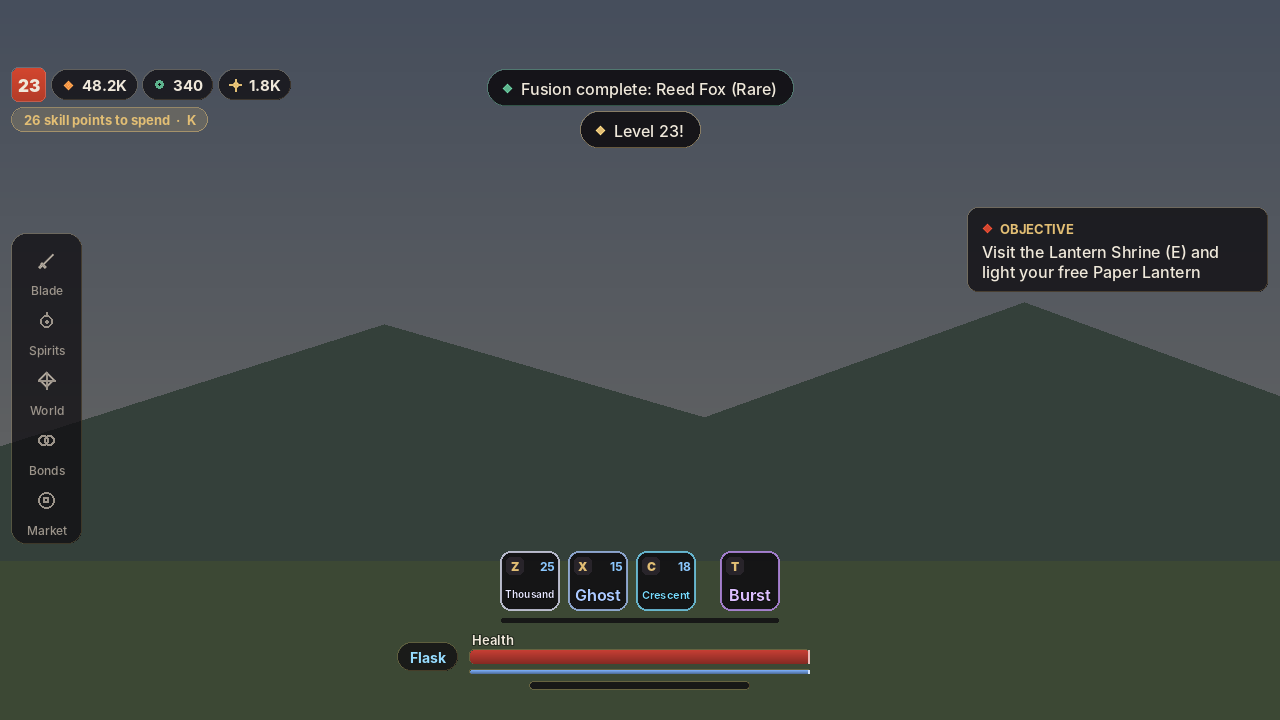
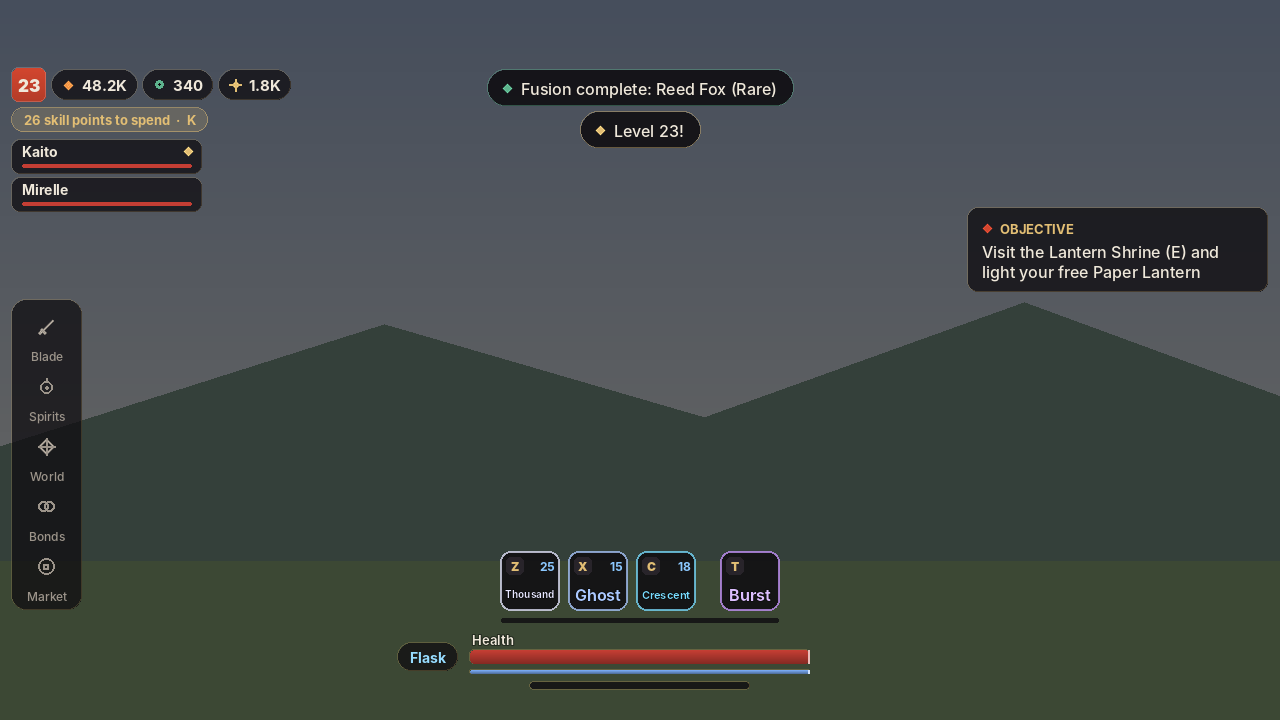
Party frames on the HUD, guard-aware enemy attacks, docs for night 4
- PartyFramesController: party members' names, health and distance (leader marked); moves
  to the top right on phones; dock lowered so both fit
- Enemies favor perilous (unblockable) attacks while you hold guard
- PROGRESS / HANDOFF night 4, refreshed UI previews

Claude-Session: https://claude.ai/code/session_01G92vzoZqQ6fEnzpE6jwRTB

diff --git a/HANDOFF.md b/HANDOFF.md
@@ -207,3 +207,21 @@ The guide is **still not in the repo**; this run followed the task brief + night
 - **Content**: `BossConfig.kurozuma` (Raid), Tidewater Spirits + abilities in `SpiritConfig`,
   `LanternConfig.tidewater_lantern` (added to `HubConfig.ShrineLanterns`, so the generated hub
   now has 4 pedestals), Night Market `crab_ashen` / `kite_gilded`.
+
+## Night 4 (same branch)
+- **Bell Dice** (`Shared/DiceLogic`, `DiceConfig`, `DiceService` priority 25, `DiceController`,
+  panel `BellDice` in the Market dock group). Remotes `DiceState()`, `DiceBet(betId, amount)`,
+  `DiceExchange(amount)`, `DiceEvent` (broadcast). Profile v15: `chips`, `chipsDay`,
+  `chipsExchangedDay`, `chipsExchanged`. **Compliance:** chips must never get a Robux, Ember or
+  Jade path in, never be tradeable, never be a code/bundle reward (tests/dice.spec.luau checks
+  products and codes). It is refused where PolicyService restricts paid random items. Real-
+  money/Robux gambling is not allowed on Roblox; this is simulated gambling with free chips and
+  must be declared in the experience questionnaire.
+- **Enemy AI**: `Logic/EnemyMovement` (ring slots, separation, step back, pack offsets,
+  anti-guard weight), knobs in `EnemyConfig.Movement`. EnemyService brains gained
+  `attackedAt`, `attackHandled`, `retreatUntil`, `driftSign`.
+- **World**: `MapConfig.Clutter` (gate counts), `MapConfig.MinSpawnGap` / `MinSentryGap`
+  (enforced by tests/world.spec.luau). The map itself was not scaled: Saga NPCs, waystones,
+  the river and the waterfall cave are hand-placed and would need moving together.
+- **Party frames**: `PartyFramesController` (reads PartyController.State + characters).
+  The dock now sits at 60% height so the frames fit above it.

diff --git a/PROGRESS.md b/PROGRESS.md
@@ -217,6 +217,15 @@ Legend: [x] done in code · [~] code done, needs Studio work/playtest · [ ] not
 - [ ] Studio: look at the real UI on PC + phone (fonts render differently from the preview), Kurozuma rig/anims + flooded belfry arena, Tidewater Lantern model
 - [ ] Remaining panels still use the generic Kit look only (Map, Travel, Arts, Styles, Trade, Party, Codes) - fine, but could get bespoke layouts like Spirits/Lanterns
 
+## Night 4 (cloud run, code only): calmer world, smarter enemies, Bell Dice, party HUD
+- [x] Less clutter: Torii Road 5 gates (was a 22-gate tunnel), one torii per stair, one named gate per zone (`MapConfig.Clutter`)
+- [x] Enemy groups spread out: elites no longer stacked on groups, one village group removed; test keeps ground groups >= 80 studs apart
+- [x] Enemy AI (`Logic/EnemyMovement`): shared ring slots around the player, separation (no stacking), step back after attacks (take turns), pack spawn spacing, perilous attacks likelier vs. a guarding player; 2 attackers per player at once (was 3)
+- [x] Bell Dice: shared table per server (everyone sees rounds, bets, winners), free Fortune Chips only, exact odds + 97.22% return shown, capped chip -> Ember exchange, policy-gated; profile v15
+- [x] Party frames on the HUD (names, health, distance, leader); top right on phones
+- [ ] Studio: playtest enemy spacing/turn-taking feel and tune `EnemyConfig.Movement`; look at the thinner Torii Road
+- [ ] Before launch: answer "simulated gambling" in the Roblox experience questionnaire (Bell Dice)
+
 ## Playtesting
 - `rojo build playtest.project.json -o Wraithsteel-Playtest.rbxl` -> open in Studio -> Play.
   You spawn in the hub (south). The valley (north, through the red gate): Torii Road to the
